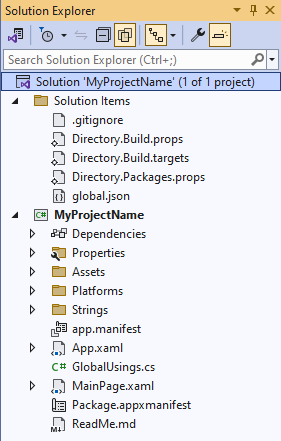
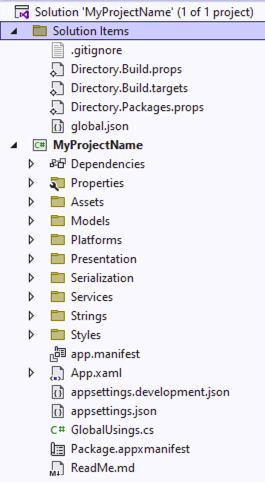
docs: Updated the docs with the latest wizard images
(cherry picked from commit a562e8aa71768517c5b822c06545b72df5ca7662)

diff --git a/doc/GettingStarted.md b/doc/GettingStarted.md
@@ -16,16 +16,16 @@ This tutorial will walk you through how to create an Uno application with Uno.Ex
 
 * Create a new C# solution using the **Uno Platform App** template, from Visual Studio's **Start Page**, then click the **Next** button
 
-    ![Visual Studio - Get started - Selecting `create a new project` option](Assets/tutorial01/newproject1.PNG)  
-    ![Visual Studio - Create a new project - Selecting `Uno Platform App` option](Assets/tutorial01/newproject2.PNG)
+    ![Visual Studio - Get started - Selecting `create a new project` option](./Learn/images/newproject1.png)
+    ![Visual Studio - Create a new project - Selecting `Uno Platform App` option](./Learn/images/newproject2.png)
 
 * Configure your new project by providing a project name and a location, check the "**Place solution and project in the same directory**" option, then click the **Create** button
 
-    ![Visual Studio - Configure project name and location](Assets/tutorial01/configure-new-unoplatform-app.PNG)
+    ![Visual Studio - Configure project name and location](./Learn/images/configure-new-unoplatform-app.png)
 
 * Choose a template preset to build your application
 
-    ![Visual Studio - Configure your new project](getting-started/wizard/assets/intro.png)
+    ![Visual Studio - Configure your new project](./Learn/images/intro.png)
 
     > [!TIP]
     > For a detailed overview of the Uno Platform project template wizard and all its options, see [this](xref:Uno.GettingStarted.UsingWizard).
@@ -50,7 +50,7 @@ The `dotnet` templates included in the `Uno.Templates` package are used to easil
 * Navigate to the desired projects directory, and use the `unoapp` template to generate the starter solution discussed above
 
     ```dotnetcli
-    dotnet new unoapp-extensions -n MyProjectName -o MyProject
+    dotnet new unoapp -o MyProject -preset recommended
     ```
 
     The argument specified after the `-o` flag (i.e. MyProjectName) will act as the name for both a containing directory and the generated solution.
@@ -64,7 +64,6 @@ The `dotnet` templates included in the `Uno.Templates` package are used to easil
 The generated solution will contain *MyProjectName* for application logic, including constructs like ViewModels and services, along with the pages, controls, and other views constituting the UI of the application.
 
 ![The structure of the generated solution](./Learn/images/ProjectStructure-min.png)
-// Add new picture here
 
 ### 3. Running the Application
 
